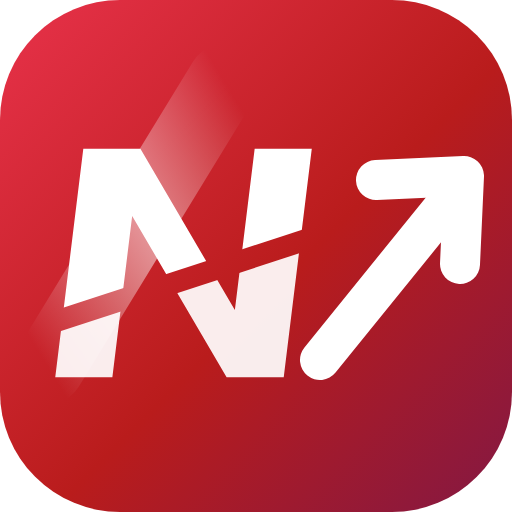
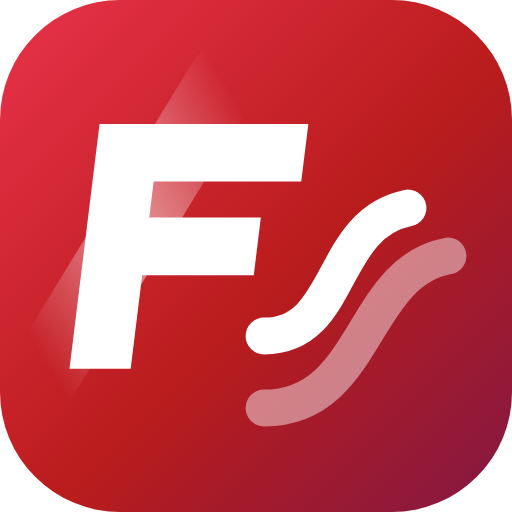
17-9-26-30
เปลี่ยนชื่อแอปเป็น Flowix (โฟลวิกซ์) พร้อมเครื่องหมายใหม่ที่สื่อ "งานไหลลื่น เชื่อมโยงกัน"

ความหมายของชื่อ
- Flow = การทำงานที่ต่อเนื่อง ไม่สะดุด
- ix = ลงท้ายแบบซอฟต์แวร์/ระบบดิจิทัลยุคใหม่
- รวมกัน = ระบบที่ทำให้งานและข้อมูลไหลลื่นเชื่อมโยงกัน

เครื่องหมาย
- เปลี่ยนตัวอักษรของไอคอนจาก N เป็น F เอียงไปข้างหน้า
- เพิ่มสายธารสองเส้นไหลออกไปทางขวา เส้นหลังจางกว่าเส้นหน้า = ข้อมูลไหลเชื่อมโยงกัน
- 🐛 เอา "รอยผ่าทแยง" กลางตัวอักษรออก — รอยผ่าอ่านออกมาเป็น "ตัดขาด/สะดุด"
  ซึ่งค้านกับความหมายของชื่อโดยตรง ตัวอักษรต้องเป็นชิ้นเดียวไม่ขาดตอน
- ⚠ ใช้เส้นโค้ง (C) ไม่ใช่เส้นหักมุม ความไหลลื่นมาจากความโค้งนี้
  และสองเส้นต้องขนานกันไม่ตัดกัน ไม่งั้นพอย่อเล็กจะพันกัน

โลโก้ตัวอักษรในแอป
- "Flowix" แบ่งสองท่อน: Flow ใช้สีพื้น · ix ไล่เฉดแดงไปพลัม
- ⚠ ต้องแบ่งที่ Flow|ix ห้ามแบ่งเป็น Flo|wix เพราะจะไปเน้นคำว่า wix
  ซึ่งเป็นชื่อแบรนด์ทำเว็บรายใหญ่

เปลี่ยนชื่อและคำโปรยทุกที่
- title, manifest, meta description ใช้คำโปรย "งานไหลลื่น เชื่อมโยงกัน"
- หน้าเข้าสู่ระบบ · หน้าตั้งค่าองค์กร · แถบแจ้งเปลี่ยนชื่อ (คีย์ใหม่ app.rebrand.flowix.ack)
- เลื่อนเลขเวอร์ชันไอคอนใน manifest เป็น v10

ตรวจแล้ว: eslint ผ่าน · vitest 112 เคสผ่าน · Playwright บน Pixel 5 ทั้ง 4 สิทธิ์
ไม่มีสกรอลแนวนอน โลโก้กว้าง 125px

Changed region(s): [[0.0938, 0.2188, 0.9688, 0.8438]]

diff --git a/src/shared/services/OrgSettingService.js b/src/shared/services/OrgSettingService.js
@@ -27,7 +27,7 @@ export const ORG_FALLBACK = {
   website: "",
   /**
    * โลโก้บนหัวเว็บ · หน้าเข้าสู่ระบบ
-   * ✅ ค่าเริ่มต้น = โลโก้ของ "แอป" (NexPlan) ไม่ใช่โลโก้บริษัทใดบริษัทหนึ่ง — องค์กรที่เพิ่งติดตั้ง
+   * ✅ ค่าเริ่มต้น = โลโก้ของ "แอป" (Flowix) ไม่ใช่โลโก้บริษัทใดบริษัทหนึ่ง — องค์กรที่เพิ่งติดตั้ง
    * จะได้แบรนด์ของแอปไปก่อน แล้วค่อยอัปโหลดโลโก้ตัวเอง หรือกดเลือกชุดที่ติดมากับแอปทับได้
    * ⚠ ชุดเดิมของ DO ALL ยังอยู่ครบทุกไฟล์ — เลือกกลับมาใช้ได้ 1 คลิกจากหน้า "ตั้งค่าองค์กร"
    */
@@ -41,7 +41,7 @@ export const ORG_FALLBACK = {
 };
 
 /**
- * ชุดโลโก้ของแอป (NexPlan) — มีหลายแบบเพราะพื้นหลังแต่ละที่ไม่เหมือนกัน
+ * ชุดโลโก้ของแอป (Flowix) — มีหลายแบบเพราะพื้นหลังแต่ละที่ไม่เหมือนกัน
  * ⚠ ไฟล์ PNG มีสีตัวอักษรตายตัว จึงต้องเลือกให้ตรงพื้น ไม่งั้นตัวหนังสือจมหายไปกับพื้น
  */
 export const APP_LOGO = {
@@ -56,7 +56,7 @@ const APP_LOGO_FILES = Object.values(APP_LOGO);
 /**
  * โลโก้ที่ควรใช้ในบริบทนั้นๆ
  * • องค์กรตั้งโลโก้ของตัวเองไว้ (อัปโหลดเอง หรือเลือกชุด DO ALL) → ใช้ของเขาทุกที่เหมือนเดิม
- * • ยังใช้ค่าเริ่มต้นของแอปอยู่ → หยิบไฟล์ NexPlan ที่เข้ากับพื้นตรงนั้นให้อัตโนมัติ
+ * • ยังใช้ค่าเริ่มต้นของแอปอยู่ → หยิบไฟล์ Flowix ที่เข้ากับพื้นตรงนั้นให้อัตโนมัติ
  * @param {{on?: "dark"|"light", layout?: "wordmark"|"stacked"|"icon"}} opts
  * @param {object} [settings] ค่าที่หน้าจอ subscribe อยู่ (useOrgSettings) — ส่งมาด้วยเพื่อให้
  *   เปลี่ยนโลโก้แล้วหน้าจอวาดใหม่ทันที (ถ้าอ่านจากแคชเฉยๆ React จะไม่รู้ว่ามีอะไรเปลี่ยน)

diff --git a/index.html b/index.html
@@ -2,7 +2,7 @@
 <html lang="en">
   <head>
     <meta charset="utf-8" />
-    <!-- ไอคอนของ "แอป" (NexPlan) — คนละส่วนกับโลโก้บริษัทที่ตั้งจากหน้า "ตั้งค่าองค์กร" โดยสิ้นเชิง -->
+    <!-- ไอคอนของ "แอป" (Flowix) — คนละส่วนกับโลโก้บริษัทที่ตั้งจากหน้า "ตั้งค่าองค์กร" โดยสิ้นเชิง -->
     <link rel="icon" href="/favicon.ico" sizes="any" />
     <link rel="icon" type="image/svg+xml" href="/app-icon.svg" />
     <meta name="viewport" content="width=device-width, initial-scale=1" />
@@ -10,7 +10,7 @@
     <meta name="theme-color" content="#dc2626" />
     <meta
       name="description"
-      content="NexPlan (เน็กซ์แพลน) — ระบบวางแผนงานยุคใหม่: จัดตารางช่าง · ติดตามการดำเนินงาน · เอกสาร · วางบิล · เบิกค่าใช้จ่าย"
+      content="Flowix (โฟลวิกซ์) — ระบบที่ทำให้งานและข้อมูลไหลลื่นเชื่อมโยงกัน: จัดตารางช่าง · ติดตามการดำเนินงาน · เอกสาร · วางบิล · เบิกค่าใช้จ่าย"
     />
     <link rel="apple-touch-icon" href="/app-icon-apple-180.png" />
 
@@ -44,7 +44,7 @@
       ส่วน %PUBLIC_URL% เป็นไวยากรณ์ของ CRA ที่ Vite ไม่รู้จัก — เปลี่ยนเป็น / ตรงๆ ทั้งหมด
       (ไฟล์ใน public/ ยังถูกเสิร์ฟที่ราก / เหมือนเดิม เช่น /favicon.ico, /manifest.json, /push-sw.js)
     -->
-    <title>NexPlan · ระบบวางแผนงานยุคใหม่</title>
+    <title>Flowix · งานไหลลื่น เชื่อมโยงกัน</title>
   </head>
   <body>
     <noscript>You need to enable JavaScript to run this app.</noscript>

diff --git a/src/shared/components/AppRebrandNotice.js b/src/shared/components/AppRebrandNotice.js
@@ -15,7 +15,7 @@ import { useEffect, useState } from "react";
 import { Alert, Box, Button, Collapse, Stack, Typography } from "@mui/material";
 import { InstallMobile } from "@mui/icons-material";
 
-const ACK_KEY = "app.rebrand.nexplan.ack";   // ⚠ เปลี่ยนคีย์ทุกครั้งที่เปลี่ยนชื่อ/ไอคอน ไม่งั้นคนที่เคยกดรับทราบรอบก่อนจะไม่เห็นรอบใหม่
+const ACK_KEY = "app.rebrand.flowix.ack";   // ⚠ เปลี่ยนคีย์ทุกครั้งที่เปลี่ยนชื่อ/ไอคอน ไม่งั้นคนที่เคยกดรับทราบรอบก่อนจะไม่เห็นรอบใหม่
 
 /** เปิดจากแอปที่ติดตั้งไว้ (ไม่ใช่แท็บเบราว์เซอร์) หรือเปล่า */
 const isInstalledApp = () => {
@@ -63,7 +63,7 @@ export default function AppRebrandNotice() {
         }
       >
         <Typography sx={{ fontWeight: 800, fontSize: "0.9rem" }}>
-          แอปเปลี่ยนชื่อเป็น “NexPlan (เน็กซ์แพลน)” พร้อมไอคอนใหม่แล้ว
+          แอปเปลี่ยนชื่อเป็น “Flowix (โฟลวิกซ์)” พร้อมไอคอนใหม่แล้ว
         </Typography>
         <Typography variant="caption" sx={{ display: "block", color: "text.secondary" }}>
           ถ้าไอคอนบนหน้าจอโฮมยังเป็นอันเดิม ไม่ได้แปลว่าแอปไม่อัปเดต — ข้างในเป็นเวอร์ชันล่าสุดเสมอ

diff --git a/src/features/settings/pages/OrganizationSettings.js b/src/features/settings/pages/OrganizationSettings.js
@@ -32,7 +32,7 @@ const BORDER = "#e2e8f0";
 const IMAGE_SLOTS = [
   {
     slot: "app", field: "logoUrl", title: "โลโก้แอป",
-    desc: "แสดงบนหัวเว็บและหน้าเข้าสู่ระบบ · ค่าเริ่มต้นคือโลโก้ NexPlan ของแอป — เลือกชุดอื่นหรืออัปโหลดโลโก้บริษัททับได้",
+    desc: "แสดงบนหัวเว็บและหน้าเข้าสู่ระบบ · ค่าเริ่มต้นคือโลโก้ Flowix ของแอป — เลือกชุดอื่นหรืออัปโหลดโลโก้บริษัททับได้",
     dark: true,
   },
   {
@@ -185,7 +185,7 @@ export default function OrganizationSettings() {
     }
   };
 
-  /** เลือกรูปที่ติดมากับแอป (NexPlan / ชุดเดิม) — เร็วกว่าไปหาไฟล์มาอัปโหลดใหม่ */
+  /** เลือกรูปที่ติดมากับแอป (Flowix / ชุดเดิม) — เร็วกว่าไปหาไฟล์มาอัปโหลดใหม่ */
   const applyPresetImage = async (slot, key) => {
     setBusy(true); setError("");
     try {

diff --git a/src/features/auth/pages/Login.js b/src/features/auth/pages/Login.js
@@ -190,7 +190,7 @@ const Login = () => {
             <Box
               component="img"
               src={appLogoFor({ on: "dark", layout: "stacked" }, org)}
-              alt="NexPlan"
+              alt="Flowix"
               /* ⚠ 88 ไม่ใช่ 220 เหมือนตอนที่โลโก้ยังเป็นกรอบเรียงแนวตั้ง — ตอนนี้เป็นตัวอักษรบรรทัดเดียว
                  ตั้ง 220 แล้วคำจะกว้างจนชนขอบแผงและใหญ่กลบหัวข้อที่อยู่ใต้มัน */
               sx={{ height: 88, maxWidth: "100%", objectFit: "contain", mb: 1.5, filter: "drop-shadow(0 2px 6px rgba(0,0,0,0.15))" }}
@@ -245,7 +245,7 @@ const Login = () => {
           <Box
             component="img"
             src={appLogoFor({ on: "light" }, org)}
-            alt="NexPlan"
+            alt="Flowix"
             sx={{ height: 40, maxWidth: "100%", objectFit: "contain", objectPosition: "left center", mb: 2.5, display: { xs: "block", md: "none" } }}
           />
 

diff --git a/src/app/App.js b/src/app/App.js
@@ -50,7 +50,7 @@ const App = () => {
   useEffect(() => {
     const currentRoute = findCurrentRoute(ThemeRoutes, location.pathname);
     const title = currentRoute ? currentRoute.title || "Dashboard" : "Dashboard";
-    document.title = `${title} · NexPlan`;
+    document.title = `${title} · Flowix`;
   }, [location.pathname]);
 
   return (
